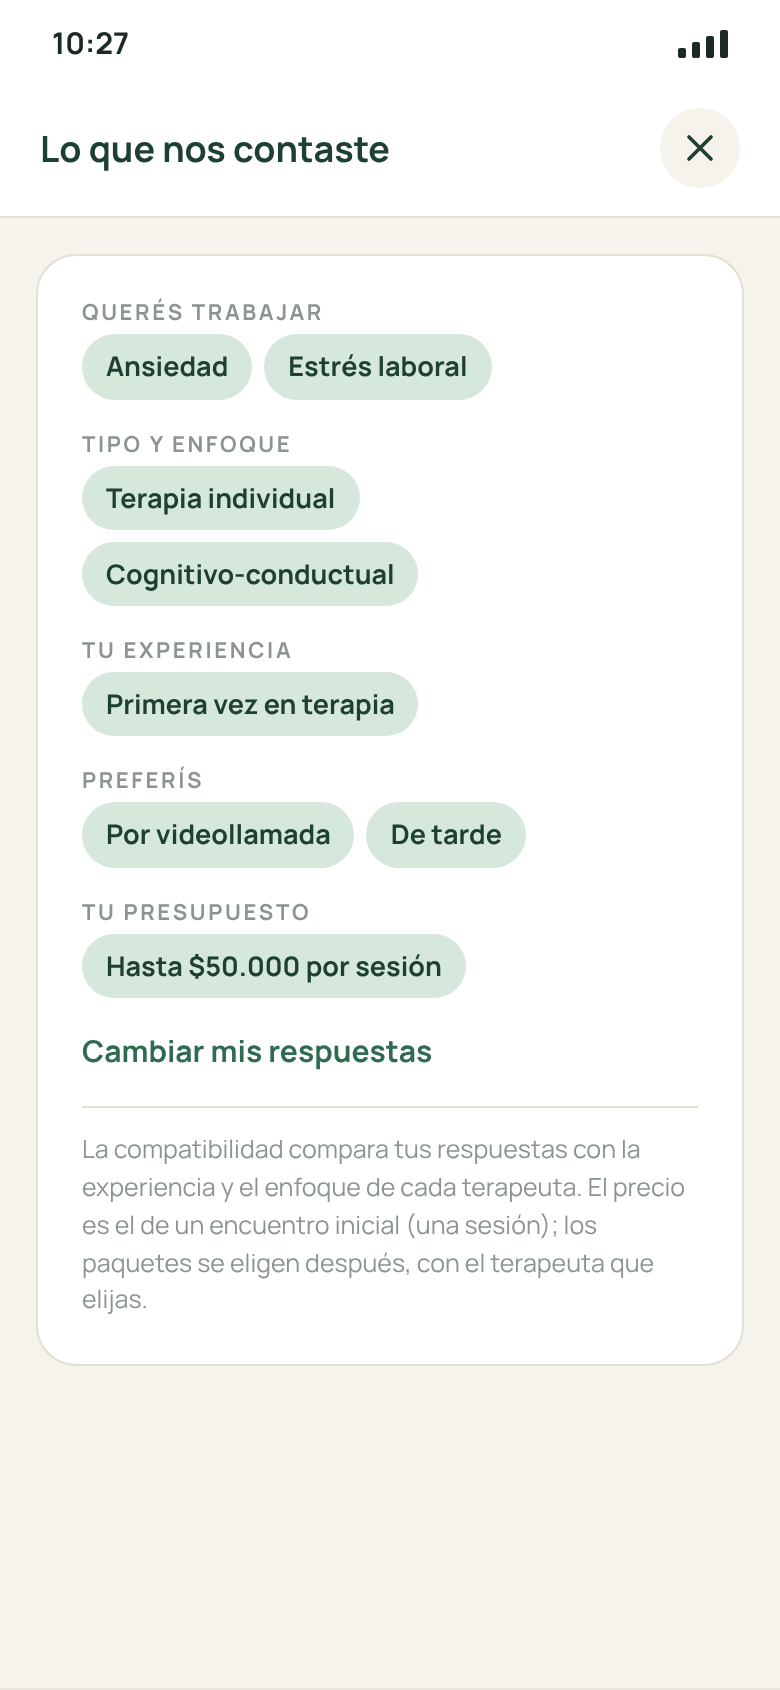
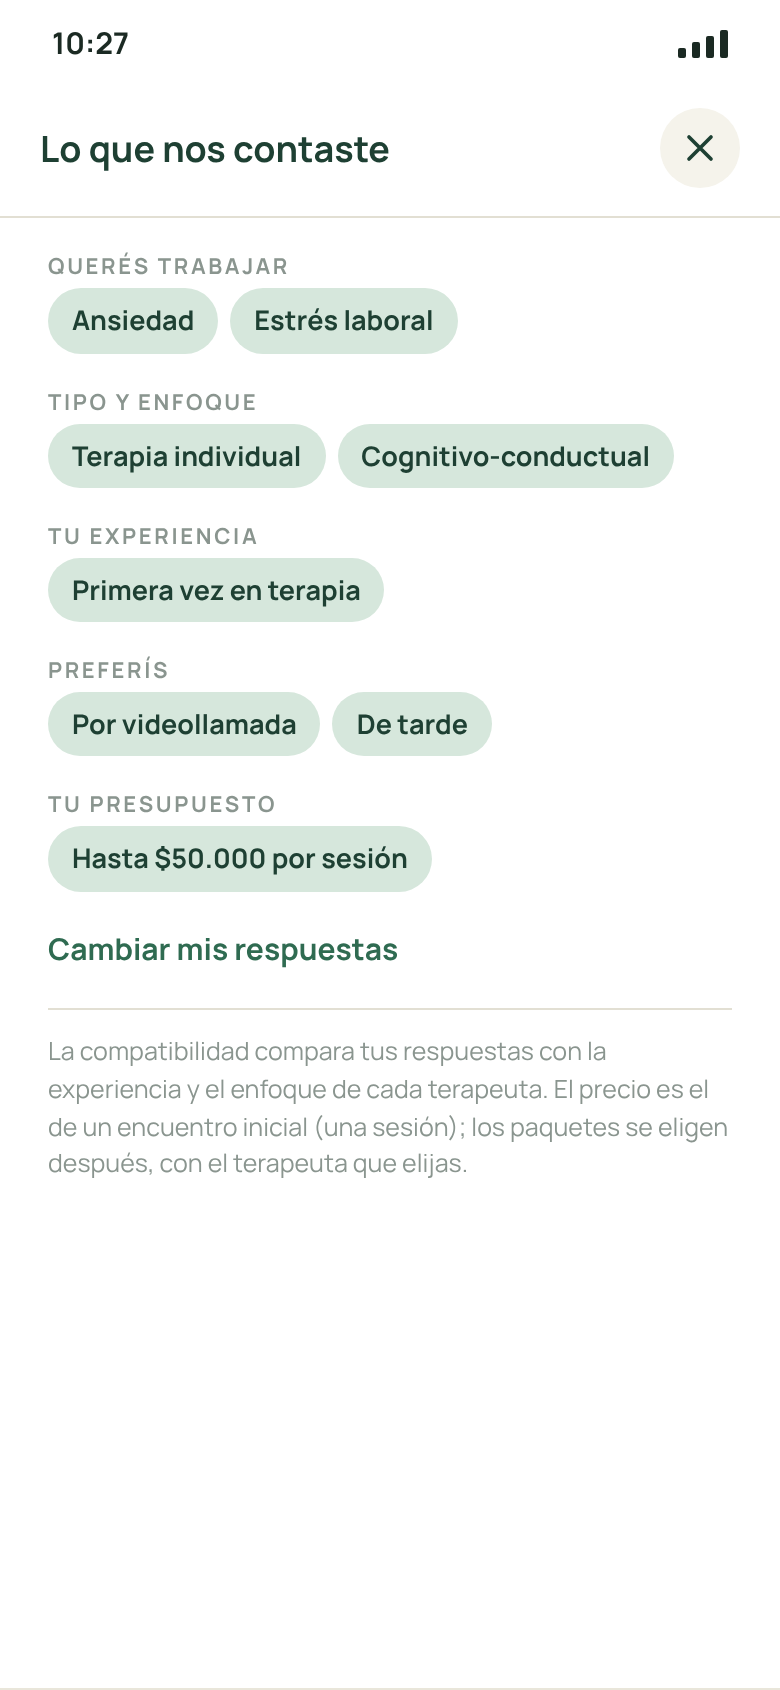
Ronda #2: «Tus respuestas» a pantalla completa con fondo blanco, sin tarjeta
Claude-Session: https://claude.ai/code/session_01WU1DRuLLvKJwMVuiPWLics

Changed region(s): [[0.0615, 0.1538, 0.9538, 0.7692], [0.9231, 0.5846, 0.9538, 0.6154], [0.9231, 0.1538, 0.9538, 0.1846]]

diff --git a/web/public/app-usuario/ronda-2.html b/web/public/app-usuario/ronda-2.html
@@ -844,8 +844,8 @@ ul.lista-simple { padding: 0; }
 .limpiar.off { color: var(--tinta-tenue); opacity: .55; }
 .limpiar.solo-ico { width: 34px; height: 34px; justify-content: center; border-radius: 50%; border: 1px solid var(--linea); background: var(--superficie); flex: none; }
 .filtro-wrap { position: relative; display: inline-flex; }
-.pp-cuerpo.pp-respuestas { background: var(--crema); padding: 18px 18px 0; }
-.pp-respuestas .el-contaste { gap: 16px; padding: 22px; }
+.pp-cuerpo.pp-respuestas { padding: 18px 24px 0; }
+.pp-respuestas .el-contaste { gap: 18px; padding: 0; }
 .pp-respuestas .el-tags span { font-size: 13.5px; padding: 6px 12px; }
 .pp-respuestas .enlace { font-size: 15px !important; }
 .panel-pleno { position: absolute; inset: 0; z-index: 10; background: var(--superficie); display: flex; flex-direction: column; }
@@ -1832,7 +1832,7 @@ ul.lista-simple { padding: 0; }
 </div>
 <div>
 <div class="marco tel" id="r2-5-respuestas-telefono">
-  <div class="panel-pleno"><div class="estado-tel"><span>10:27</span><span class="senal"><i style="height:5px"></i><i style="height:8px"></i><i style="height:11px"></i><i style="height:14px"></i></span></div><div class="pp-cab"><b>Lo que nos contaste</b><span class="pp-cerrar"><svg class="ico"><use href="#i-cerrar"/></svg></span></div><div class="pp-cuerpo pp-respuestas"><div class="tarjeta el-contaste">
+  <div class="panel-pleno"><div class="estado-tel"><span>10:27</span><span class="senal"><i style="height:5px"></i><i style="height:8px"></i><i style="height:11px"></i><i style="height:14px"></i></span></div><div class="pp-cab"><b>Lo que nos contaste</b><span class="pp-cerrar"><svg class="ico"><use href="#i-cerrar"/></svg></span></div><div class="pp-cuerpo pp-respuestas"><div class="el-contaste">
           <div class="grupo"><small>Querés trabajar</small><div class="el-tags"><span>Ansiedad</span><span>Estrés laboral</span></div></div>
           <div class="grupo"><small>Tipo y enfoque</small><div class="el-tags"><span>Terapia individual</span><span>Cognitivo-conductual</span></div></div>
           <div class="grupo"><small>Tu experiencia</small><div class="el-tags"><span>Primera vez en terapia</span></div></div>

diff --git a/06-app-usuario/historial/ronda-2.md b/06-app-usuario/historial/ronda-2.md
@@ -308,7 +308,7 @@ El Buscador de profesionales puede abrirse desde el Cross-selling de profesional
 </article>
 </div>
 
-- **"Tus respuestas" a pantalla completa (teléfono).** Muestra lo mismo que el panel "Lo que nos contaste" del escritorio: la misma tarjeta blanca sobre fondo crema, con las respuestas agrupadas, el enlace "Cambiar mis respuestas" y la aclaración sobre la compatibilidad y el precio. No se edita ahí: es para ver, y el enlace lleva al cuestionario. Se cierra con la cruz y no tiene botón abajo. Por eso el botón "Tus respuestas" lleva un ícono de portapapeles con renglones (ver) en lugar del lápiz (editar).
+- **"Tus respuestas" a pantalla completa (teléfono).** Muestra lo mismo que el panel "Lo que nos contaste" del escritorio, pero a pantalla completa con fondo blanco y sin tarjeta, igual que los menús de filtro y orden, para que se pueda recorrer con scroll: las respuestas agrupadas, el enlace "Cambiar mis respuestas" y la aclaración sobre la compatibilidad y el precio. No se edita ahí: es para ver, y el enlace lleva al cuestionario. Se cierra con la cruz y no tiene botón abajo. Por eso el botón "Tus respuestas" lleva un ícono de portapapeles con renglones (ver) en lugar del lápiz (editar).
 
 - **En el teléfono, sin la fila de pills** de "Lo que nos contaste": no entraban todas y ocupaban lugar. Al lado del filtro va el botón "**Tus respuestas**" (con un ícono de portapapeles), que abre el resumen, con el enlace para cambiarlas. Debajo, "Ordenar por" y la cantidad de terapeutas.
 
